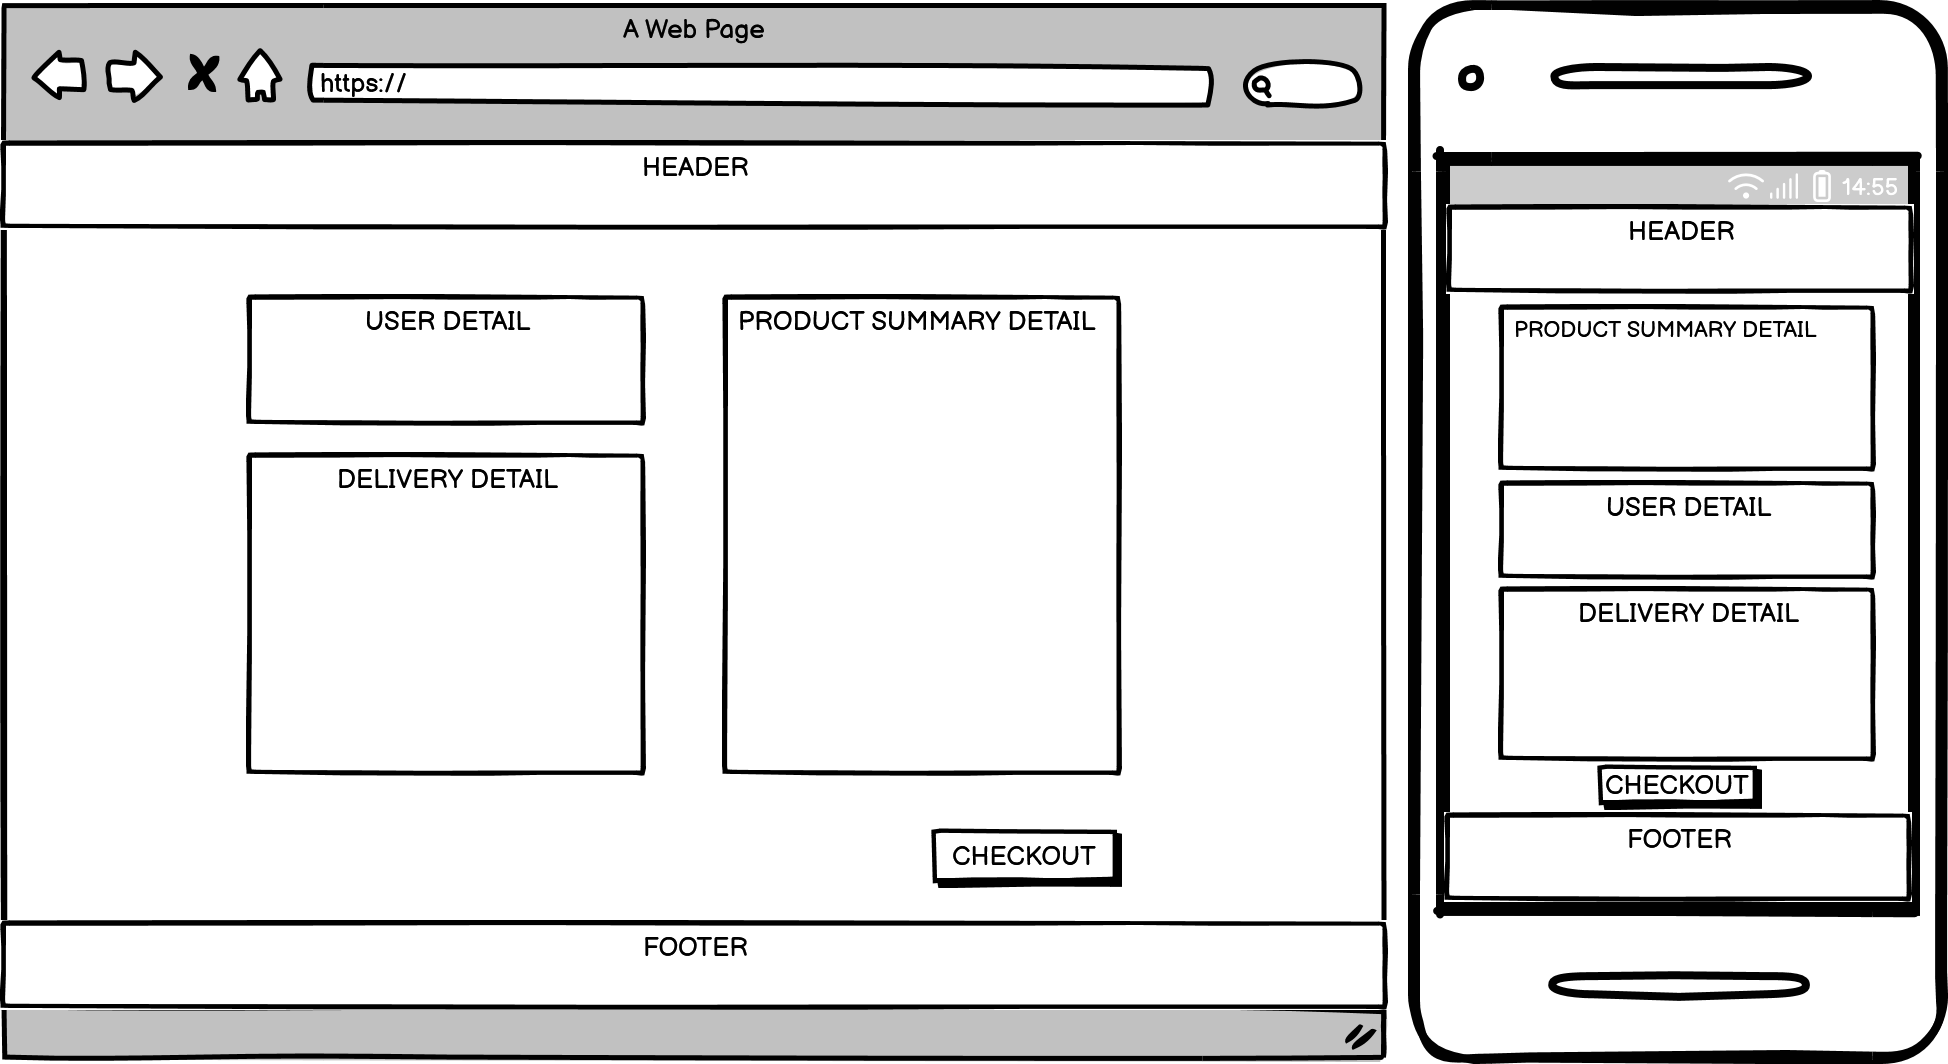
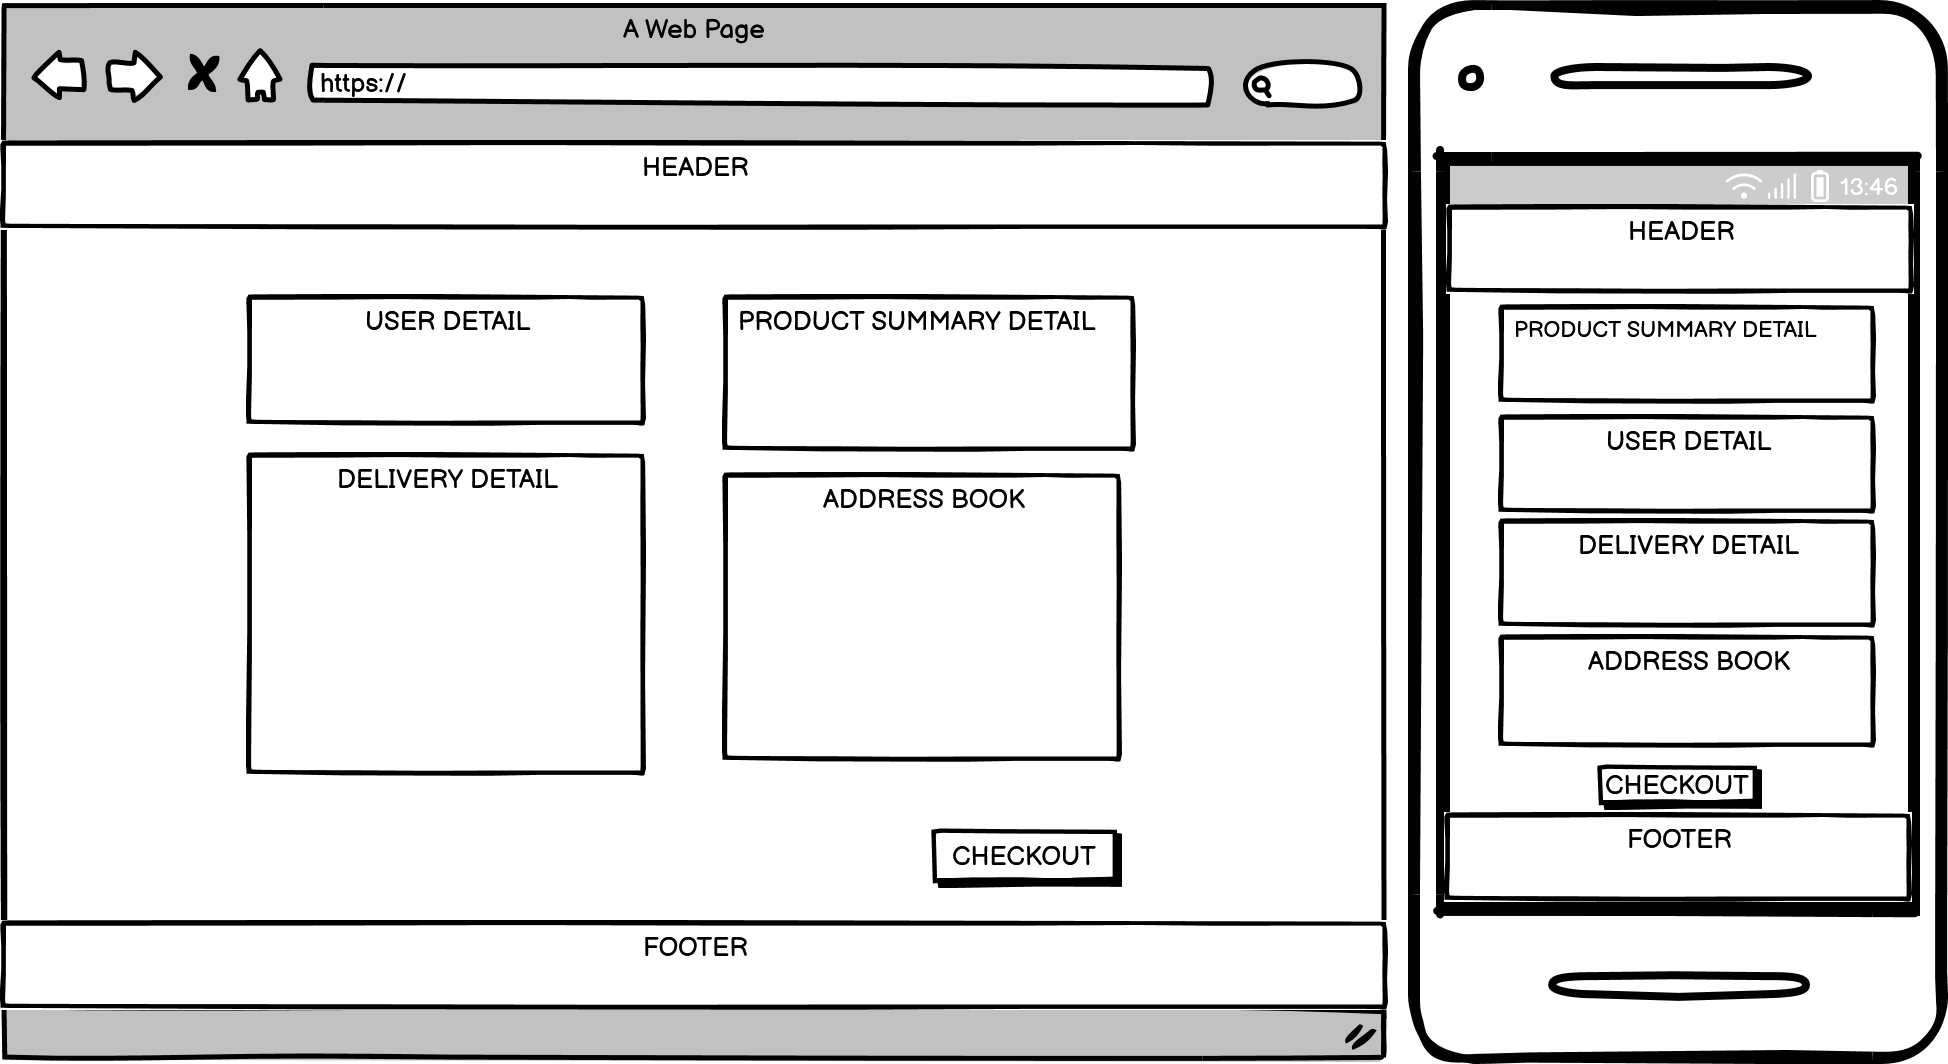
Add: env.py var, images to readme and testing files, changes to readme and testing.md

diff --git a/checkout/migrations/0004_alter_address_county.py b/checkout/migrations/0004_alter_address_county.py
@@ -1,0 +1,18 @@
+# Generated by Django 5.0.2 on 2024-04-24 18:22
+
+from django.db import migrations, models
+
+
+class Migration(migrations.Migration):
+
+    dependencies = [
+        ('checkout', '0003_address_user_alter_address_county_and_more'),
+    ]
+
+    operations = [
+        migrations.AlterField(
+            model_name='address',
+            name='county',
+            field=models.CharField(max_length=80, null=True),
+        ),
+    ]

diff --git a/README.md b/README.md
@@ -2,9 +2,9 @@
  
 Cushion Haven is an eCommerce store crafted with a blend of HTML, CSS, JavaScript, Python (Django), Bootstrap, jQuery, and PostgreSQL database technologies. Features include a user-friendly checkout process, an add-to-cart functionality, and convenient sorting and search features, allowing customers to easily find their desired products.The navbar features intuitive categories for effortless navigation, while the product detail page provides information about each item, ensuring a satisfying shopping experience from start to finish.
 
-![am-i-responsive](https://github.com/)
+![am-i-responsive](https://github.com/zaicodes/CushionHaven/tree/main/documentation/readme/am-i-responsive.png)
 
-Link to live site: []()
+Link to live site: [Cushion-Haven](https://cushionhaven-e17d4f9ff625.herokuapp.com/)
 
 ## CONTENTS
 
@@ -130,11 +130,11 @@ Various security measures were implemented for this project:
 
 - Products Page: Displays product images, names, prices, tags, and star ratings. Superusers have the option to update or delete products. It includes a sorting function and shows the number of items on the page.
 
-- Product Detail Page: Provides detailed information about a selected item, including an image, title, price, description, tags, and quantity selector. Users can add items to their bag and receive a success toast notification.
+- Product Detail Page: Provides detailed information about a selected item, including an image, title, price, description, tags, and quantity selector. Users can add items to their bag and receive a success toast notification. This page also includes comment box where users can leave a comment under the product.
 
 - Bag Page: Lists all items in the user's bag with images, names, SKUs, prices, quantities, and subtotals. Users can adjust quantities or delete items. It displays bag totals and offers a secure checkout option.
 
-- Checkout Page: Divided into delivery and order summary sections. Users can enter delivery information, with pre-populated details for registered users. It includes payment information and buttons for adjusting the bag or completing the order.
+- Checkout Page: Divided into delivery and order summary sections. Users can enter delivery information, with pre-populated details for registered users. It includes payment information and buttons for adjusting the bag or completing the order. Additionally, it containts address book where the user's different addresses will be saved. This is editable and can be deleted too.
 
 - Checkout Success Page: Displays a summary of the order and notifies users of a confirmation email. It also includes a button to view latest deals and shows a success toast.
 
@@ -215,11 +215,6 @@ In future implementations, I would like to:
 
 Currently, Stripe for the website is in developer mode, enabling us to process test payments and ensure the site's functionality.
 
-| Type | Card No | Expiry | CVC | ZIP |
-| :--- | :--- |:--- | :--- | :--- |
-| Success| Visa | 4242 4242 4242 4242 | A date in the future | Any 3 digits | Any 5 digits |
-| Require authorisation | 4000 0027 6000 3184 | A date in the future | Any 3 digits | Any 5 digits |
-| Declined | 4000 0000 0000 0002 | A date in the future | Any 3 digits | Any 5 digits |
 
 ## Testing 
 Please consult the [TESTING.md](https://github.com/zaicodes/CushionHaven/blob/main/TESTING.md) document for a comprehensive overview of all conducted tests.

diff --git a/TESTING.md b/TESTING.md
@@ -1,6 +1,6 @@
 # cushionhaven
  
-Link to live site: []()
+Link to live site: [Cushion-Haven](https://cushionhaven-e17d4f9ff625.herokuapp.com/)
 
 Link to README file [README](https://github.com/zaicodes/CushionHaven)
 
@@ -13,8 +13,6 @@ Link to README file [README](https://github.com/zaicodes/CushionHaven)
   - [Python](#Python)
 
 - [Lighthouse](#Lighthouse)
-- [Wave](#Wave)
-- [Accessibility Testing](#Accessibility-Testing)
 - [Responsiveness Testing](#Responsiveness-Testing)
 
 - [Manual Testing](#Manual_Testing)
@@ -31,19 +29,52 @@ The website underwent validation using W3C, WC3 CSS, JSHint JavaScript validator
 
 ### HTML
 
+- HTML W3C Validator Regarding the HTML Validator, it flagged information messages about trailing slashes on void elements, a result of the automatically added /> close tag by Prettier. Manual removal will be addressed in the next file save to rectify this issue. 
+- It also flagged the Django template syntax related which was ignored. other than that, there were no errors found.
+
 ### CSS
+
+CSS Validator (JigSaw) The CSS Validator Jigsaw was used to validate all the CSS files. There were no errors found.
+
+![CSS-Validator](https://github.com/zaicodes/CushionHaven/blob/main/documentation/testing/css-validator.png)
+
 
 ### JavaScript
 
+JSLint was used to check  for any syntax errors in the JS files, and there were couple of warnings found:
+This was something I couldn't resolve, as it could break the code making the var let statements not work as expected.
+
+![JSLint](https://github.com/zaicodes/CushionHaven/blob/main/documentation/testing/jslint.png)
+
+
 ### Python
+
+I had to rectify certain issues such as characters exceeding 79 and ensuring that there are two lines present between functions. Upon running the Python files through the PEP8 validator, no errors were detected.
+
+![pep8-py](https://github.com/zaicodes/CushionHaven/blob/main/documentation/testing/pep8-py.png)
 
 ## Lighthouse
 
-## Wave
-
-## Accessibility Testing
+Google's Lighthouse tool was used to test performance, accessibility, SEO, and PWA aspects of the site. 
+The results are as follow:
 
 ## Responsiveness and Mobile-Friendliness Testing
+
+Thorough testing was performed on the following devices:
+
+Laptop:
+- HP Envy 360
+
+Mobile Devices:
+- iPhone 13 Pro
+- Samsung Galaxy S23 Ultra
+
+In addition, the website was tested on the following browsers:
+- Google Chrome
+- Safari
+- Firefox
+
+All tests showed that the website is fully responsive and adaptable to different screen sizes.
 
 ## Manual Testing
 
@@ -77,9 +108,12 @@ The website underwent validation using W3C, WC3 CSS, JSHint JavaScript validator
 
 ### Full Testing
 
+
 ## Bugs
 
 ### Solved Bugs
 
+
 ### Known Bugs
+
 
